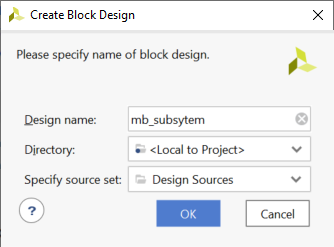
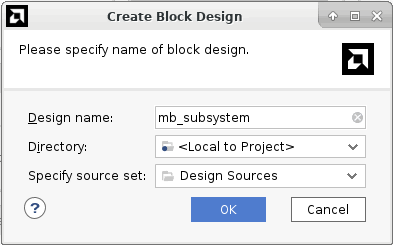
Merged changes by Thomas Delev

diff --git a/docs/Getting_Started/microblaze-system/README.md b/docs/Getting_Started/microblaze-system/README.md
@@ -10,7 +10,7 @@
 
 ## Introduction
 
- In this tutorial, you create a simple MicroBlaze system for a Spartan-7 FPGA using Vivado IP integrator.
+ In this tutorial, you create a simple AMD MicroBlaze™ system for a Spartan-7 FPGA using AMD Vivado™ IP integrator.
 
  The MicroBlaze system includes native Xilinx IP including:
 * MicroBlaze processor
@@ -28,7 +28,7 @@
 
  The feature is demonstrated using a software application code developed in the Vitis software platform in a stand-alone application mode.
 
- This lab targets the Xilinx SP701 FPGA Evaluation Kit.
+ This lab targets the AMD SP701 FPGA Evaluation Kit.
 
 ## Step 1: Start the Vivado IDE and Create a Project
 
@@ -58,7 +58,7 @@ Because you selected the SP701 board when you created the Vivado IDE project, yo
 
 ```set_property board_part xilinx.com:sp701:part0:1.1 [current_project]```
 
-Although Tcl commands are available for many of the actions performed in the Vivado IDE, they are not explained in this tutorial. Instead, a Tcl script is provided that can be used to recreate this entire project. See the Tcl Console for more information. You can also refer to the *Vivado Design Suite Tcl Command Reference Guide*([UG835](https://www.xilinx.com/cgi-bin/docs/rdoc?v=2021.2%3Bd%3Dug835-vivado-tcl-commands.pdf)) for information about the `write_bd_tcl` commands.
+Although Tcl commands are available for many of the actions performed in the Vivado IDE, they are not explained in this tutorial. Instead, a Tcl script is provided that can be used to recreate this entire project. See the Tcl Console for more information. You can also refer to the *Vivado Design Suite Tcl Command Reference Guide*([UG835](https://docs.xilinx.com/access/sources/dita/map?Doc_Version=2023.2%20English&url=ug835-vivado-tcl-commands)) for information about the `write_bd_tcl` commands.
 
 ## Step 2: Create an IP Integrator Design
 
@@ -103,9 +103,10 @@ Although Tcl commands are available for many of the actions performed in the Viv
 
 ### Use the Board Window to Connect to Board Interfaces
 
-There are several ways to use an existing interface in IP integrator. Use the Board window to instantiate some of the interfaces that are present on the SP701 board.
+There are several ways to use an existing interface in IP integrator. Use the Board window to instantiate some of the interfaces that are present on the SP701 board. 
 
-1. Select the **Board** window to see the interfaces present on the SP701 board.
+1. Navigate to the **Windows>Board**.
+2. Select the **Board** window to see the interfaces present on the SP701 board.
 
    ![](./media/image9-1.png)
 
@@ -113,15 +114,15 @@ There are several ways to use an existing interface in IP integrator. Use the Bo
 
    ![](./media/image11-1.png)
 
-2. From the Board window, select **UART** under the Miscellaneous folder, and drag and drop it into the block design canvas.
+3. From the Board window, select **UART** under the Miscellaneous folder, and drag and drop it into the block design canvas. Click **OK** on the **Auto Connect** pop-up.
 
     This instantiates the AXI Uartlite IP on the block design.
 
-3. Likewise, from the Board window, select **LED** under the General Purpose Input or Output folder, and drag and drop it into the block design canvas.
+4. From the Board window, select **LED** under the General Purpose Input or Output folder, and drag and drop it into the block design canvas. Click **OK** on the **Auto Connect** pop-up.
 
     This instantiates the GPIO IP on the block design and connects it to the on-board LEDs. 
 
-4. Next, from the Board window, select **FPGA Reset** under the Reset folder, and drag and drop it into the block design canvas.
+5. Next, from the Board window, select **FPGA Reset** under the Reset folder, and drag and drop it into the block design canvas.
 
     This connects the CPU push button reset to the MIG core IP. 
 
@@ -667,10 +668,16 @@ The Tcl script `lab.tcl` is included with the design files to perform all the ta
 
 ---
 
-© Copyright 2017-2022 Xilinx, Inc.
+ Copyright 2020 Xilinx, Inc.
 
-Licensed under the Apache License, Version 2.0 (the "License"); you may not use this file except in compliance with the License. You may obtain a copy of the License at
+ Licensed under the Apache License, Version 2.0 (the "License");
+ you may not use this file except in compliance with the License.
+ You may obtain a copy of the License at
 
-http://www.apache.org/licenses/LICENSE-2.0
+      http://www.apache.org/licenses/LICENSE-2.0
 
-Unless required by applicable law or agreed to in writing, software distributed under the License is distributed on an "AS IS" BASIS, WITHOUT WARRANTIES OR CONDITIONS OF ANY KIND, either express or implied. See the License for the specific language governing permissions and limitations under the License.
+ Unless required by applicable law or agreed to in writing, software
+ distributed under the License is distributed on an "AS IS" BASIS,
+ WITHOUT WARRANTIES OR CONDITIONS OF ANY KIND, either express or implied.
+ See the License for the specific language governing permissions and
+ limitations under the License.
